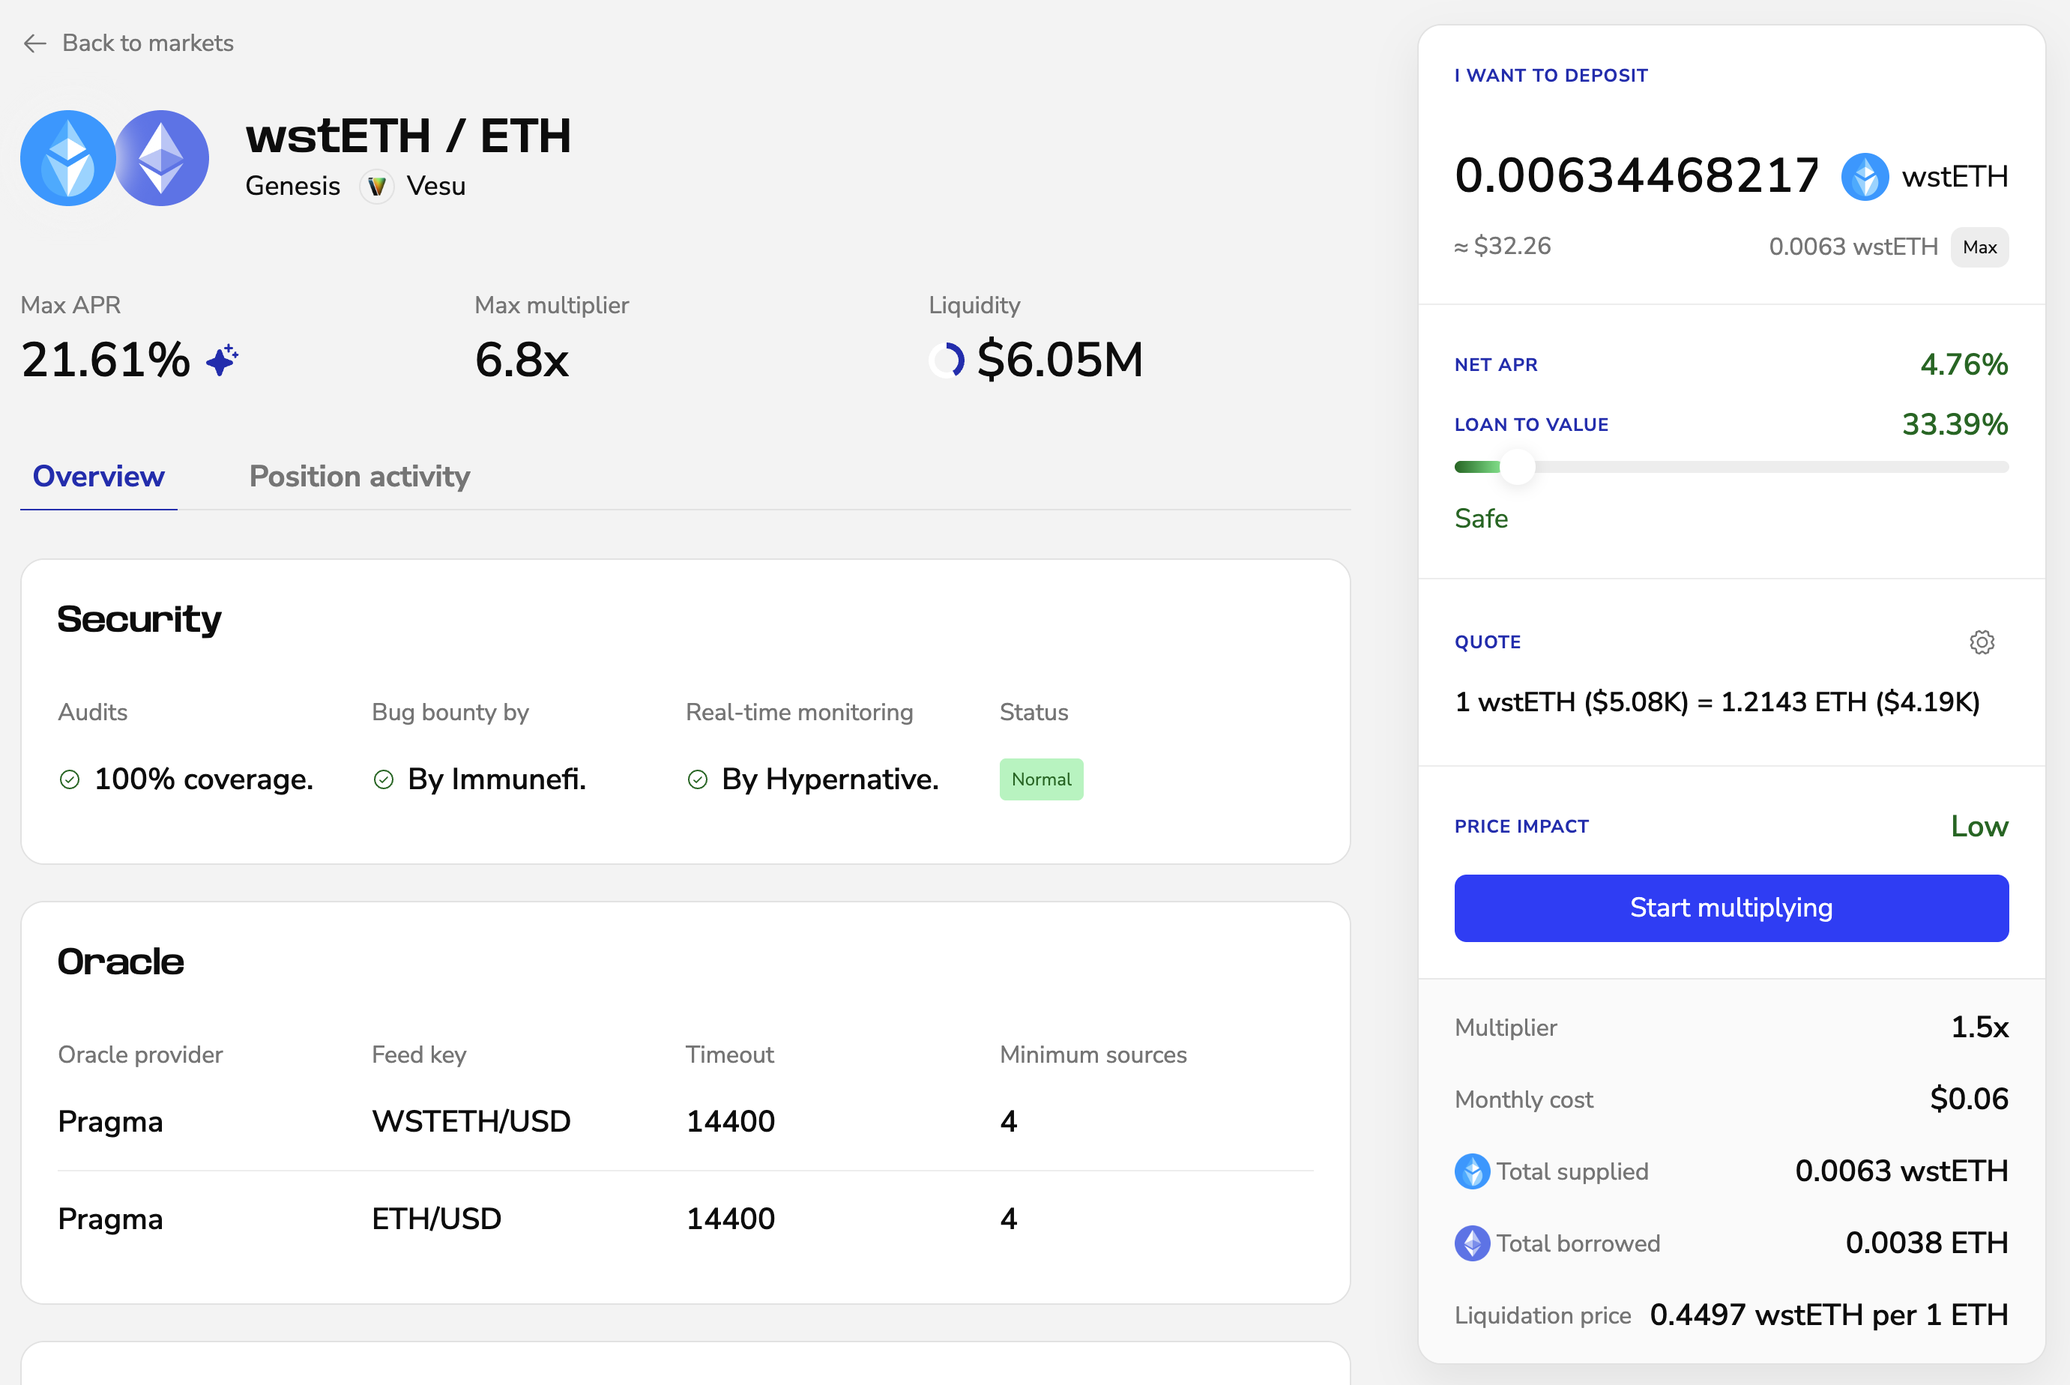
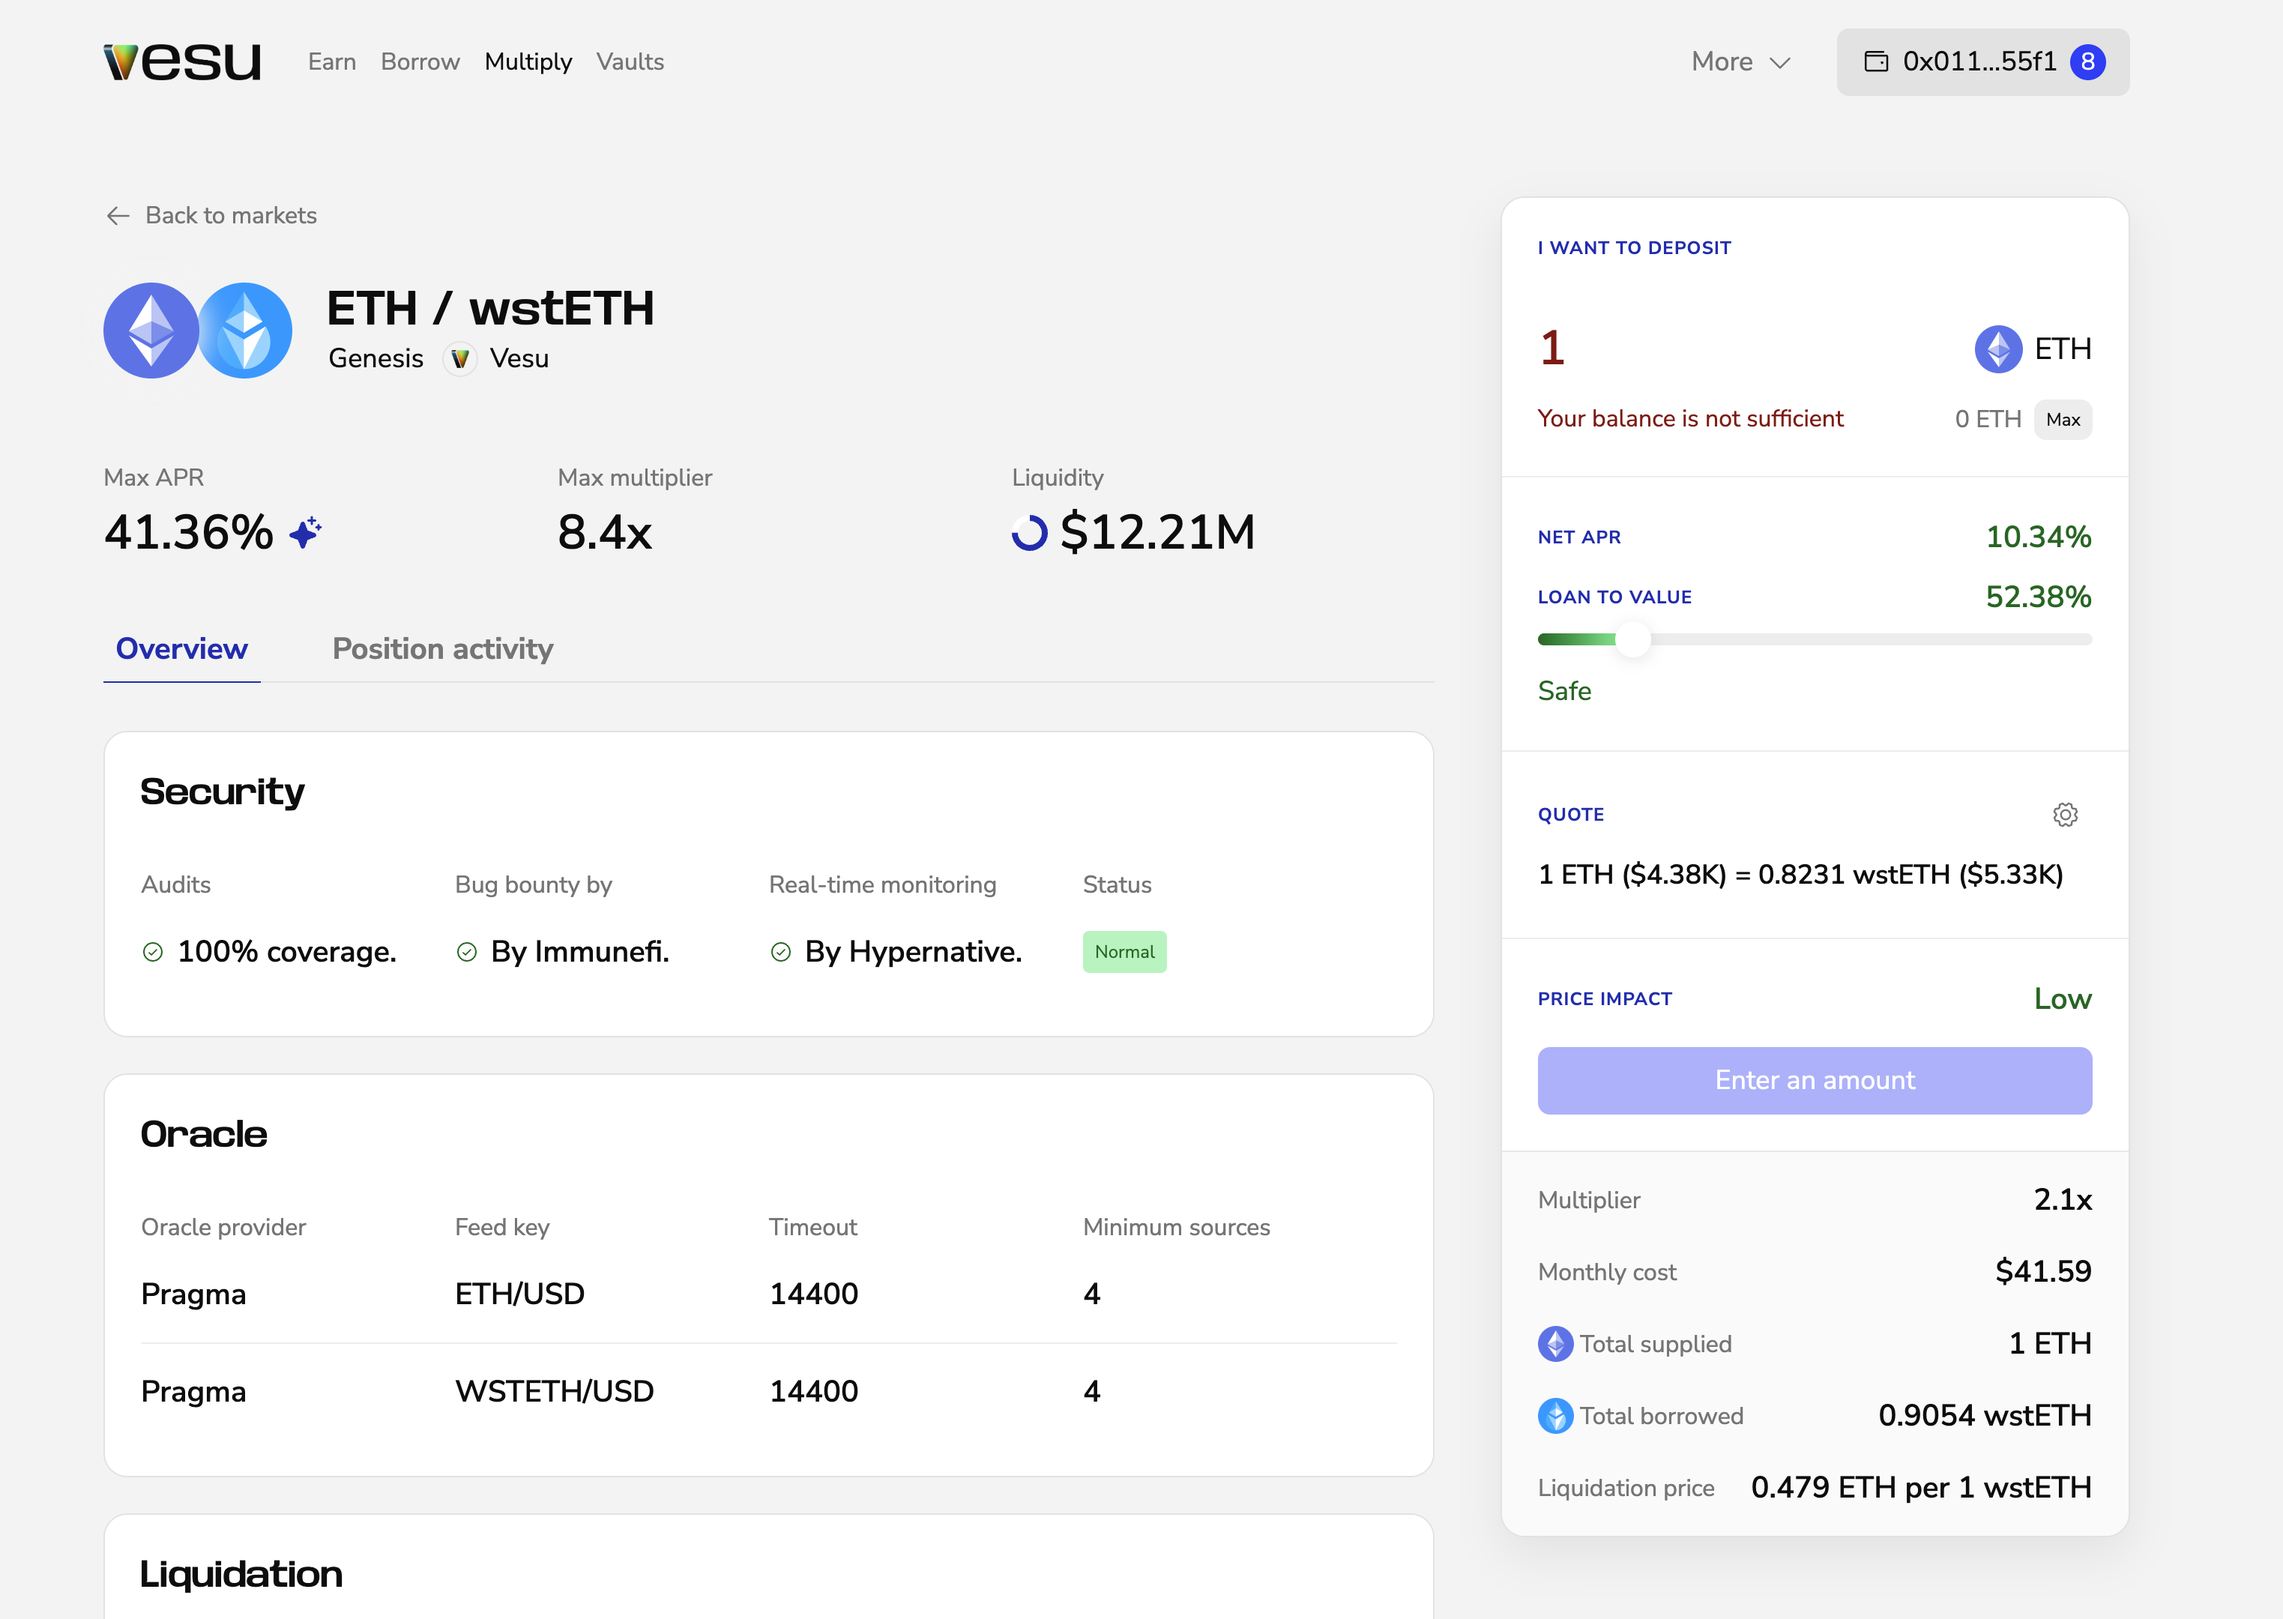
screenshots updated

diff --git a/blog/2025-10-01-Vesu-v2-BTCFi-live/index.md b/blog/2025-10-01-Vesu-v2-BTCFi-live/index.md
@@ -21,6 +21,8 @@ Bitcoin is great, but using it has been tough. Until now, choices were limited: 
 
 For the first time, you can access cheap liquidity. Without selling or giving up self-custody.
 
+![borrow-usdc.png](images/borrow-usdc.png)
+
 **Example**: Deposit **LBTC** into the new **Re7 USDC Core** pool to borrow **USDC**. Your borrow costs get subsidized by STRK rewards.
 
 Use the extra liquidity as you like, deploy it into yield strategies, or spend with the Ready Card.
@@ -29,6 +31,8 @@ Use the extra liquidity as you like, deploy it into yield strategies, or spend w
 Supplying Bitcoin earns BTCFi rewards and interest from borrowers.
 
 The new **Re7 xBTC** pool pairs staked Bitcoin with their native assets and creates strong borrow demand as users boost exposure and yield with Vesu’s Multiply feature. This leads to a healthy organic yield on top.
+
+![earn.png](images/earn.png)
 
 **Looking for something even simpler?** Vesu V2 introduces Vaults. A new strategy layer that automates yield on autopilot. At launch, we’re kicking things off with Bitcoin Vaults curated by 0D. Deposit BTC once. It gets supplied into Vesu, borrows stablecoins, and allocates them into 0D institutional-grade yield strategies. No micromanaging, no more chasing APRs.
 
@@ -53,7 +57,7 @@ Vesu V2 takes everything learned from V1 and builds an even stronger foundation 
 - **Vaults:** simply deposit to the vault to enjoy complex yield strategies on autopilot, enforced fully on-chain
 - **Security first:** Multiple audits; $100K Immunefi bug bounty and new features like onchain monitoring by Hypernative.
 
-![New frontend.png](images/index.png)
+![multiply.png](images/multiply.png)
 
 Vesu V2 strengthens UX and security while unlocking support for new assets and strategies. It is the liquidity hub for BTCFi on Starknet.
 
